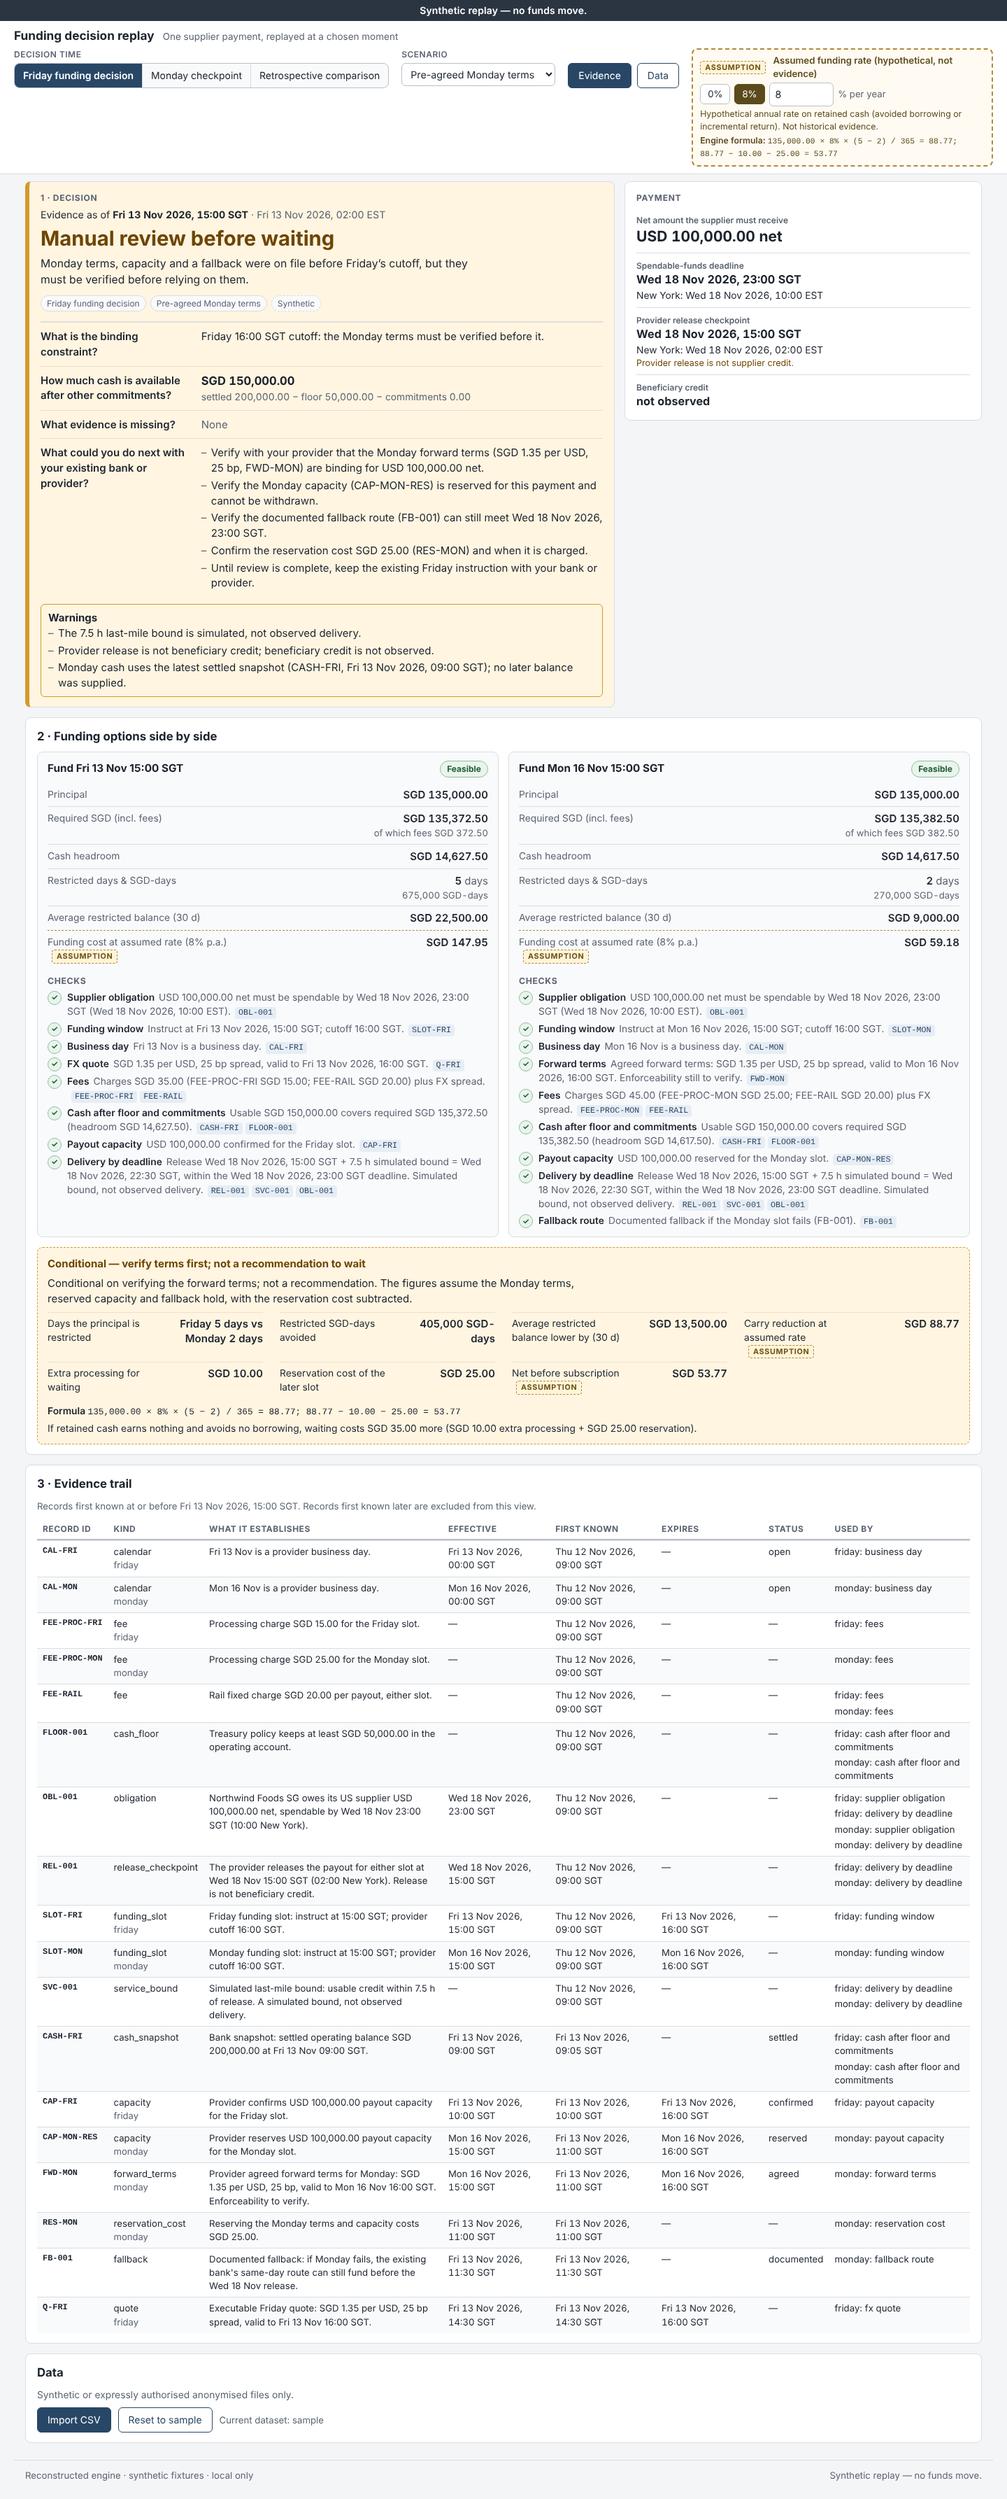
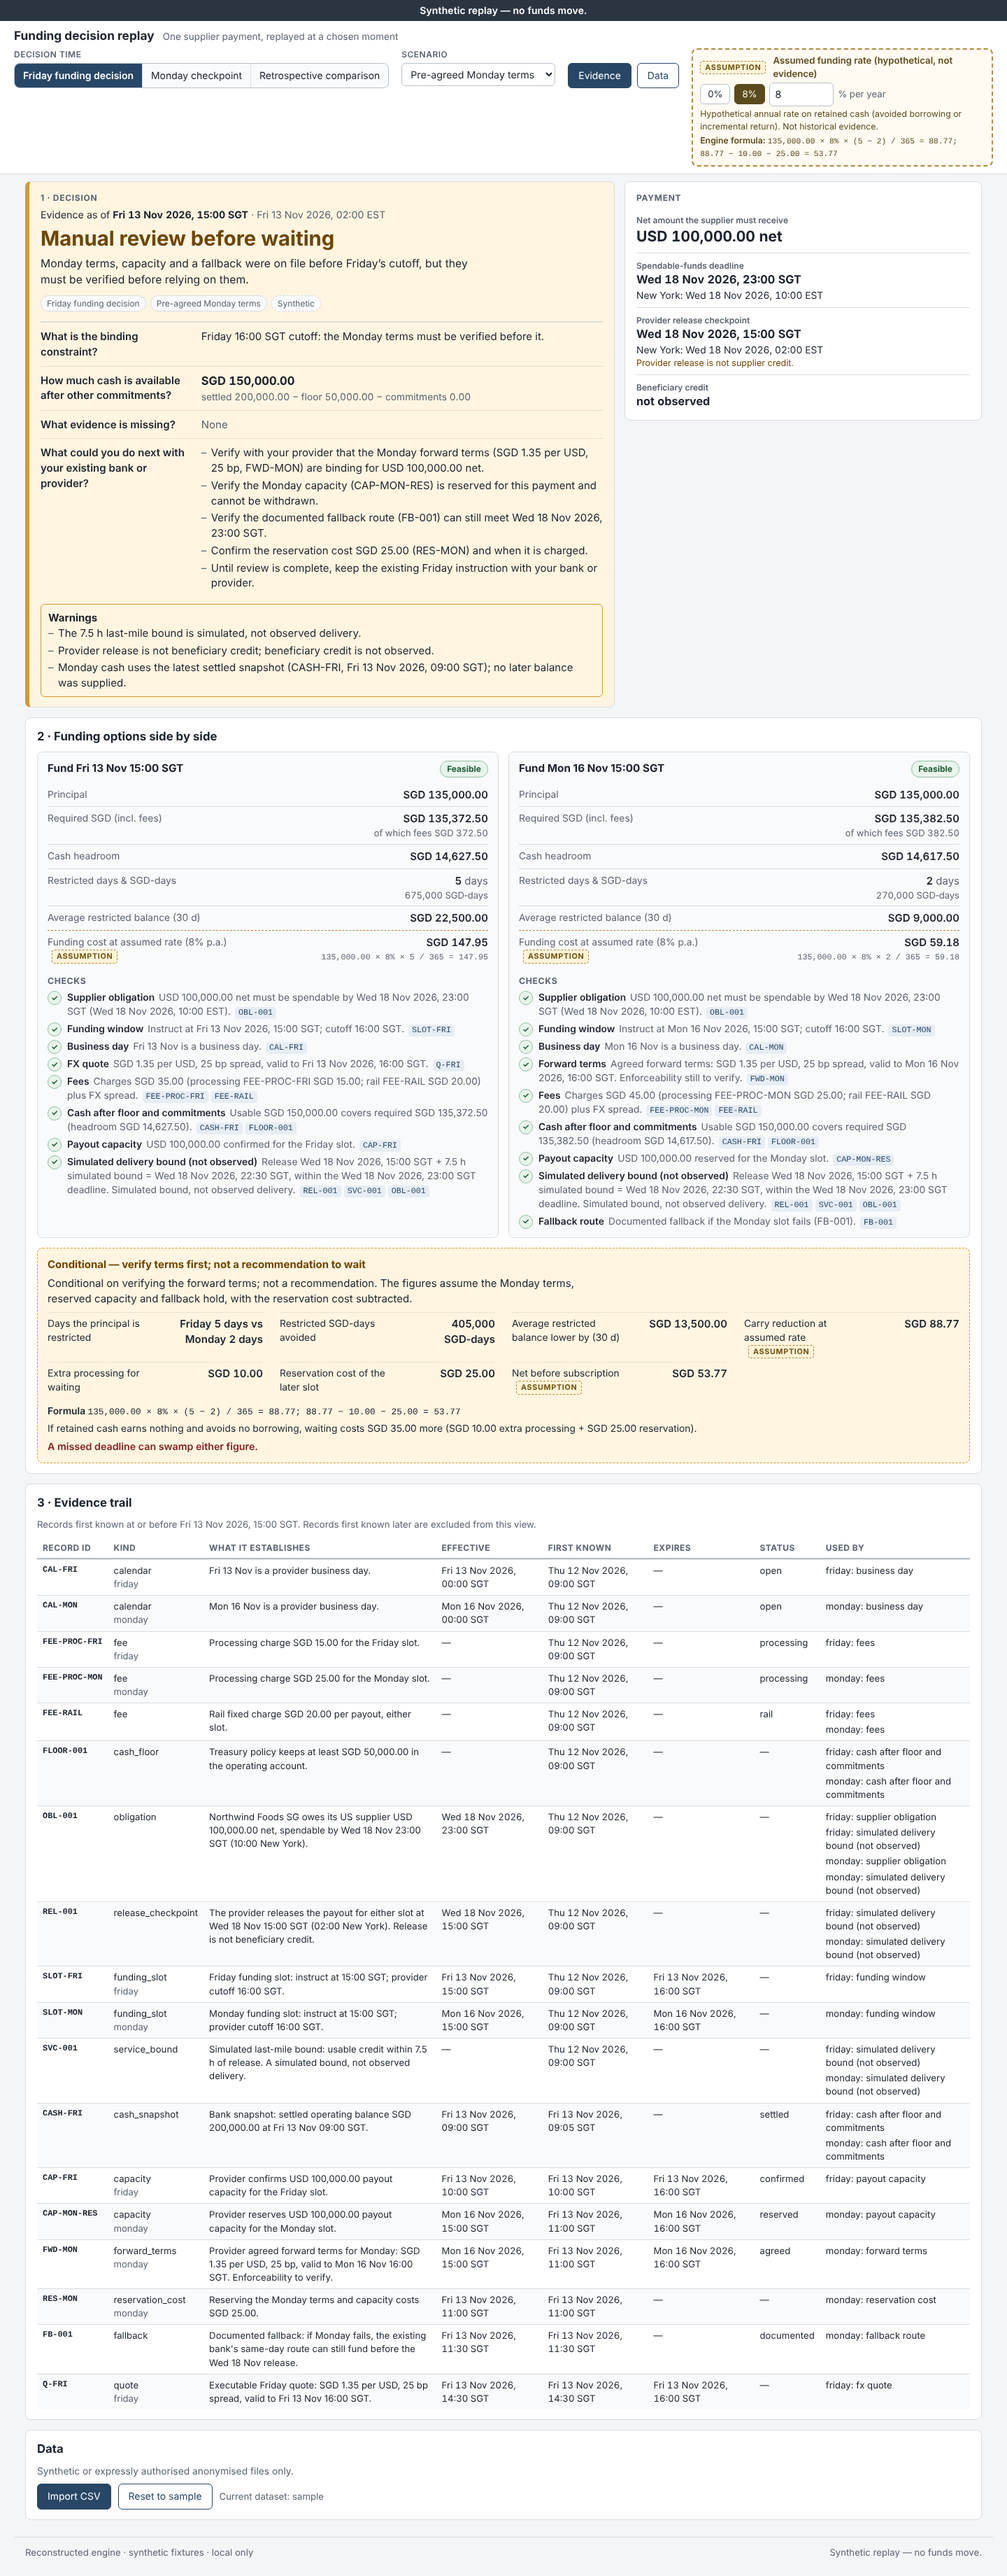
Funding replay UI: counterfactual/hindsight notes, risk note, per-option formulas, e2e 100 checks, refreshed screenshots
Claude-Session: https://claude.ai/code/session_015s4Kk7vKgcSQ7csnYmEH5j

diff --git a/funding-replay/app/static/app.js b/funding-replay/app/static/app.js
@@ -296,12 +296,22 @@
       ctx.data.scenario && ctx.data.scenario.name ? el('span', { class: 'chip', text: ctx.data.scenario.name }) : null,
       ctx.data.scenario && ctx.data.scenario.synthetic ? el('span', { class: 'chip chip-synth', text: 'Synthetic' }) : null
     ]);
-    $('decision-body').replaceChildren(
+    var noteNode = null;
+    if (!isBlank(dt.note)) {
+      // The tag only names the kind of view (from the selected decision-time id); the sentence is the engine's.
+      var tagText = dt.id === 'monday' ? 'Counterfactual' : (dt.id === 'retro' ? 'Hindsight' : 'Note');
+      noteNode = el('p', { class: 'dt-note dt-note-' + (dt.id || 'other'), id: 'dt-note' }, [
+        el('span', { class: 'tag tag-view', text: tagText }), ' ', el('span', { text: dt.note })
+      ]);
+    }
+    // replaceChildren() would print a literal "null" for a missing node, so filter first.
+    $('decision-body').replaceChildren.apply($('decision-body'), [
       asOf,
+      noteNode,
       el('p', { class: 'headline', id: 'headline', text: show(d.headline) }),
       el('p', { class: 'reason', id: 'reason', text: show(d.reason) }),
       chips
-    );
+    ].filter(Boolean));
   }
 
   function renderPayment(ctx) {
@@ -431,7 +441,7 @@
       } else {
         daysNode = el('span', null, [
           valueOrReason(opt.restricted_days, reason, 'days'),
-          el('span', { class: 'sub num', text: isBlank(opt.sgd_days) ? DASH + ' SGD-days' : opt.sgd_days + ' SGD-days' })
+          el('span', { class: 'sub num', text: isBlank(opt.sgd_days) ? DASH + ' SGD\u2011days' : opt.sgd_days + ' SGD\u2011days' })
         ]);
       }
       var costLabel = 'Funding cost at assumed rate' + (isBlank(rate) ? '' : ' (' + rate + '% p.a.)');
@@ -447,7 +457,10 @@
           optionRow('Cash headroom', valueOrReason(opt.cash_headroom_sgd, reason)),
           optionRow('Restricted days & SGD-days', daysNode),
           optionRow('Average restricted balance (30 d)', valueOrReason(opt.avg_restricted_30d, reason)),
-          optionRow(costLabel, valueOrReason(opt.funding_cost_sgd, reason), { assumption: true })
+          optionRow(costLabel, isBlank(opt.funding_cost_sgd) ? valueOrReason(null, reason) : el('span', null, [
+            valueOrReason(opt.funding_cost_sgd, reason),
+            isBlank(opt.funding_cost_formula) ? null : el('code', { class: 'sub num formula-inline', text: opt.funding_cost_formula })
+          ]), { assumption: true })
         ]),
         el('h4', { class: 'checks-title', text: 'Checks' }),
         checks.length ? el('ul', { class: 'checks' }, checks) : el('p', { class: 'muted small', text: 'No checks returned.' })
@@ -495,7 +508,7 @@
 
     var rows = [
       compRow('Days the principal is restricted', daysText),
-      compRow('Restricted SGD-days avoided', isBlank(c.sgd_days_less) ? null : c.sgd_days_less + ' SGD-days'),
+      compRow('Restricted SGD-days avoided', isBlank(c.sgd_days_less) ? null : c.sgd_days_less + ' SGD\u2011days'),
       compRow('Average restricted balance lower by (30 d)', c.avg_restricted_less_30d),
       compRow('Carry reduction at assumed rate', c.carry_reduction, { assumption: true }),
       compRow('Extra processing for waiting', c.extra_processing)
@@ -508,7 +521,8 @@
       c.framing ? el('p', { class: 'framing', text: c.framing }) : null,
       el('dl', { class: 'comp-rows' }, rows),
       c.formula ? el('p', { class: 'formula' }, [el('span', { class: 'formula-label', text: 'Formula ' }), el('code', { class: 'num', text: c.formula })]) : null,
-      c.zero_rate_note ? el('p', { class: 'zero-note', text: c.zero_rate_note }) : null
+      c.zero_rate_note ? el('p', { class: 'zero-note', text: c.zero_rate_note }) : null,
+      c.risk_note ? el('p', { class: 'risk-note', id: 'risk-note', text: c.risk_note }) : null
     ]));
   }
 
@@ -551,7 +565,10 @@
     if (c && c.available !== false && c.formula) {
       f.replaceChildren(el('span', { class: 'formula-label', text: 'Engine formula: ' }), el('code', { class: 'num', text: c.formula }));
     } else {
-      f.replaceChildren(el('span', { class: 'muted', text: 'The engine shows its formula when a comparison is available.' }));
+      var lines = (ctx.data.options || []).filter(function (o) { return !isBlank(o.funding_cost_formula); })
+        .map(function (o) { return el('span', { class: 'formula-line' }, [el('span', { class: 'formula-label', text: (o.label || o.slot) + ': ' }), el('code', { class: 'num', text: o.funding_cost_formula })]); });
+      if (lines.length) f.replaceChildren.apply(f, [el('span', { class: 'formula-label', text: 'Engine formula (funding cost)' })].concat(lines));
+      else f.replaceChildren(el('span', { class: 'muted', text: 'No funding-cost formula at this decision time.' }));
     }
   }
 

diff --git a/funding-replay/app/static/app.css b/funding-replay/app/static/app.css
@@ -151,7 +151,7 @@ select { min-width: 220px; max-width: 100%; }
   grid-template-columns: auto 1fr;
   align-items: center;
   gap: 2px 10px;
-  flex: 1 1 420px;
+  flex: 1 1 340px;
   max-width: 640px;
   min-width: 0;
 }
@@ -329,3 +329,13 @@ body[aria-busy="true"] main { cursor: progress; }
 }
 .comp-row dd.num, .opt-row dd .num { overflow-wrap: break-word; }
 table.evidence td:last-child { min-width: 12em; }
+
+/* decision-time note (counterfactual / hindsight) */
+.dt-note { margin: 4px 0 6px; padding: 6px 10px; border-radius: 6px; font-size: 0.97rem; border: 1px solid var(--border); background: var(--surface-2); max-width: 75ch; }
+.dt-note-monday { background: var(--amber-bg); border: 1px solid var(--amber-border); color: var(--amber-text); }
+.dt-note-retro { background: var(--hind-bg); border: 1px dashed #a2a7b0; color: var(--hind-text); }
+.tag-view { border: 1px solid currentColor; background: rgba(255,255,255,0.6); margin-right: 4px; }
+.dt-note-monday .tag-view { color: #6e4500; border-color: var(--amber-border); background: #ffe7b3; }
+.risk-note { margin-top: 6px; font-size: 0.95rem; font-weight: 600; color: var(--red-text); }
+.formula-inline { display: block; font-size: 0.78rem; margin-top: 2px; }
+.formula-line { display: block; }
